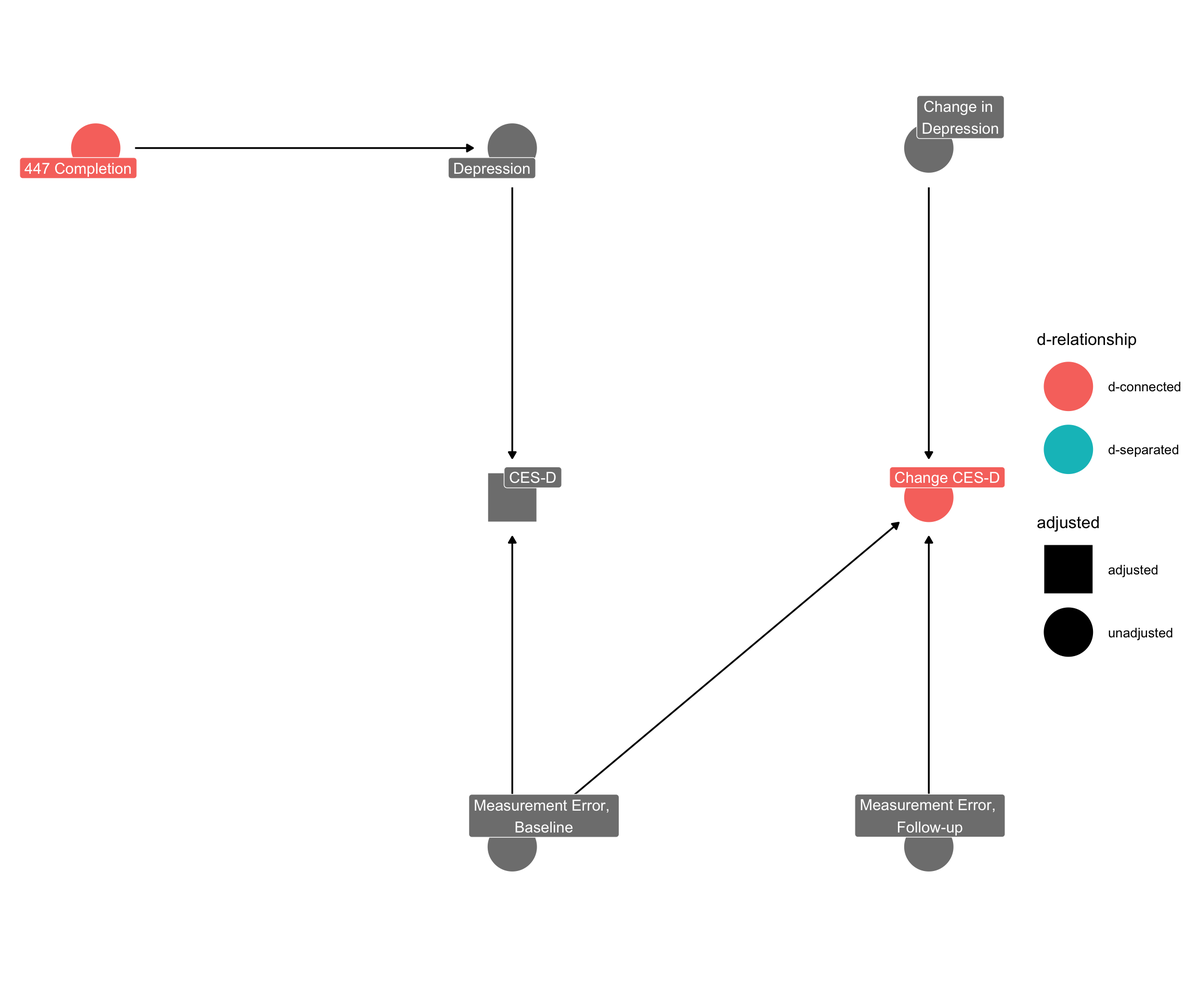
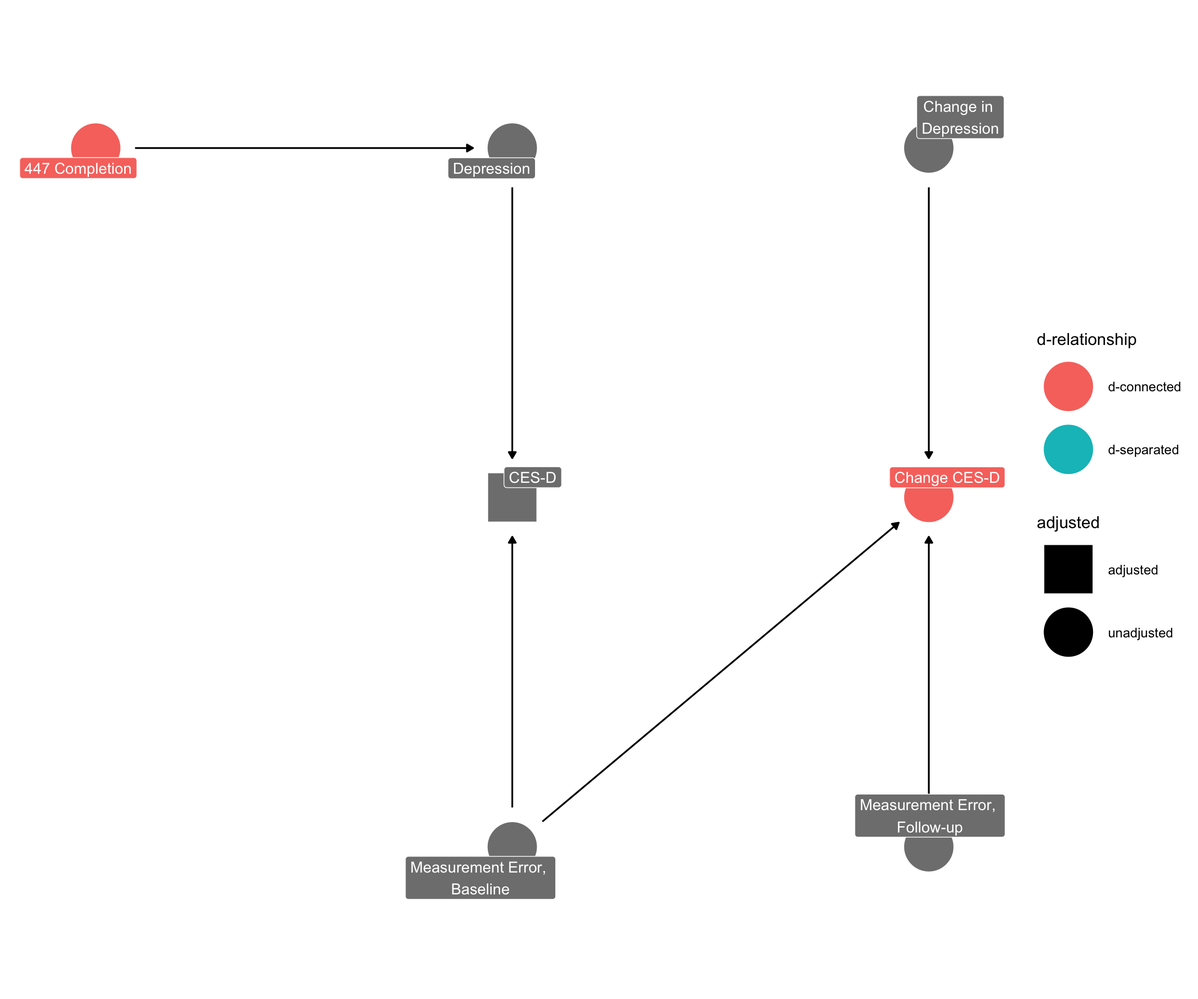
update lecture 12

Changed region(s): [[0.3125, 0.7812, 0.5312, 0.9062], [0.4062, 0.1562, 0.4375, 0.1875]]

diff --git a/_posts/12_1/lecture_12.html b/_posts/12_1/lecture_12.html
@@ -124,7 +124,7 @@ code span.wa { color: #bf0303; } /* Warning */
   <!--/radix_placeholder_rmarkdown_metadata-->
   
   <script type="text/json" id="radix-resource-manifest">
-  {"type":"character","attributes":{},"value":["bib.bib","latent.png","lecture_12_files/anchor-4.2.2/anchor.min.js","lecture_12_files/bowser-1.9.3/bowser.min.js","lecture_12_files/distill-2.2.21/template.v2.js","lecture_12_files/figure-html5/adjust_meas_error-1.png","lecture_12_files/figure-html5/amelia_trace_3-1.png","lecture_12_files/figure-html5/amelia_trace2-1.png","lecture_12_files/figure-html5/bootega-1.png","lecture_12_files/figure-html5/bot_est-1.png","lecture_12_files/figure-html5/comparison_graph-1.png","lecture_12_files/figure-html5/dag-1.png","lecture_12_files/figure-html5/graph_impute-1.png","lecture_12_files/figure-html5/loop_lmer_function-1.png","lecture_12_files/figure-html5/measurement_error_confound-1.png","lecture_12_files/figure-html5/measurement_error_longitudinal_confound-1.png","lecture_12_files/figure-html5/mi_vismiss-1.png","lecture_12_files/figure-html5/omega-1.png","lecture_12_files/figure-html5/table_impute-1.png","lecture_12_files/figure-html5/unnamed-chunk-1-1.png","lecture_12_files/figure-html5/unnamed-chunk-11-1.png","lecture_12_files/figure-html5/unnamed-chunk-2-1.png","lecture_12_files/figure-html5/unnamed-chunk-3-1.png","lecture_12_files/figure-html5/unnamed-chunk-4-1.png","lecture_12_files/figure-html5/unnamed-chunk-5-1.png","lecture_12_files/figure-html5/unnamed-chunk-7-1.png","lecture_12_files/figure-html5/unnamed-chunk-8-1.png","lecture_12_files/figure-html5/unnamed-chunk-9-1.png","lecture_12_files/header-attrs-2.8.1/header-attrs.js","lecture_12_files/jquery-1.11.3/jquery.min.js","lecture_12_files/popper-2.6.0/popper.min.js","lecture_12_files/table1-1.0/table1_defaults.css","lecture_12_files/tippy-6.2.7/tippy-bundle.umd.min.js","lecture_12_files/tippy-6.2.7/tippy-light-border.css","lecture_12_files/tippy-6.2.7/tippy.css","lecture_12_files/tippy-6.2.7/tippy.umd.min.js","lecture_12_files/webcomponents-2.0.0/webcomponents.js","network.phg.png","network.png","RE__Lecture_12,_my_part/bib.bib","RE__Lecture_12,_my_part/latent.png","RE__Lecture_12,_my_part/lecture_12.Rmd","RE__Lecture_12,_my_part/op.png","RE__Lecture_12,_my_part 2/bib.bib","RE__Lecture_12,_my_part 2/latent.png","RE__Lecture_12,_my_part 2/lecture_12.Rmd","RE__Lecture_12,_my_part 2/op.png","RE__Lecture_12,_my_part.zip"]}
+  {"type":"character","attributes":{},"value":["bib.bib","latent.png","lecture_12_files/anchor-4.2.2/anchor.min.js","lecture_12_files/bowser-1.9.3/bowser.min.js","lecture_12_files/distill-2.2.21/template.v2.js","lecture_12_files/figure-html5/adjust_blad_rror-1.png","lecture_12_files/figure-html5/adjust_meas_error-1.png","lecture_12_files/figure-html5/amelia_trace_3-1.png","lecture_12_files/figure-html5/amelia_trace2-1.png","lecture_12_files/figure-html5/bootega-1.png","lecture_12_files/figure-html5/bot_est-1.png","lecture_12_files/figure-html5/comparison_graph-1.png","lecture_12_files/figure-html5/dag-1.png","lecture_12_files/figure-html5/graph_impute-1.png","lecture_12_files/figure-html5/loop_lmer_function-1.png","lecture_12_files/figure-html5/measurement_error_confound-1.png","lecture_12_files/figure-html5/measurement_error_longitudinal_confound-1.png","lecture_12_files/figure-html5/mi_vismiss-1.png","lecture_12_files/figure-html5/omega-1.png","lecture_12_files/figure-html5/table_impute-1.png","lecture_12_files/figure-html5/unnamed-chunk-1-1.png","lecture_12_files/figure-html5/unnamed-chunk-11-1.png","lecture_12_files/figure-html5/unnamed-chunk-2-1.png","lecture_12_files/figure-html5/unnamed-chunk-3-1.png","lecture_12_files/figure-html5/unnamed-chunk-4-1.png","lecture_12_files/figure-html5/unnamed-chunk-5-1.png","lecture_12_files/figure-html5/unnamed-chunk-7-1.png","lecture_12_files/figure-html5/unnamed-chunk-8-1.png","lecture_12_files/figure-html5/unnamed-chunk-9-1.png","lecture_12_files/header-attrs-2.8.1/header-attrs.js","lecture_12_files/jquery-1.11.3/jquery.min.js","lecture_12_files/popper-2.6.0/popper.min.js","lecture_12_files/table1-1.0/table1_defaults.css","lecture_12_files/tippy-6.2.7/tippy-bundle.umd.min.js","lecture_12_files/tippy-6.2.7/tippy-light-border.css","lecture_12_files/tippy-6.2.7/tippy.css","lecture_12_files/tippy-6.2.7/tippy.umd.min.js","lecture_12_files/webcomponents-2.0.0/webcomponents.js","network.phg.png","network.png","RE__Lecture_12,_my_part/bib.bib","RE__Lecture_12,_my_part/latent.png","RE__Lecture_12,_my_part/lecture_12.Rmd","RE__Lecture_12,_my_part/op.png","RE__Lecture_12,_my_part 2/bib.bib","RE__Lecture_12,_my_part 2/latent.png","RE__Lecture_12,_my_part 2/lecture_12.Rmd","RE__Lecture_12,_my_part 2/op.png","RE__Lecture_12,_my_part.zip"]}
   </script>
   <!--radix_placeholder_navigation_in_header-->
   <!--/radix_placeholder_navigation_in_header-->
@@ -1811,7 +1811,8 @@ Note: the normal point estimate and confidence interval for omega are based on t
 Show code
 </summary>
 <div class="sourceCode">
-<pre class="sourceCode r"><code class="sourceCode r"><span class='va'>coords</span> <span class='op'>&lt;-</span> <span class='fu'>tibble</span><span class='fu'>::</span><span class='fu'><a href='https://tibble.tidyverse.org/reference/tribble.html'>tribble</a></span><span class='op'>(</span>
+<pre class="sourceCode r"><code class="sourceCode r"><span class='kw'><a href='https://rdrr.io/r/base/library.html'>library</a></span><span class='op'>(</span><span class='va'><a href='https://github.com/malcolmbarrett/ggdag'>ggdag</a></span><span class='op'>)</span>
+<span class='va'>coords</span> <span class='op'>&lt;-</span> <span class='fu'>tibble</span><span class='fu'>::</span><span class='fu'><a href='https://tibble.tidyverse.org/reference/tribble.html'>tribble</a></span><span class='op'>(</span>
   <span class='op'>~</span><span class='va'>name</span>,            <span class='op'>~</span><span class='va'>x</span>,  <span class='op'>~</span><span class='va'>y</span>,
   <span class='st'>"bladder_cancer"</span>,    <span class='fl'>1</span>,   <span class='fl'>0</span>,
   <span class='st'>"vitamins"</span>,          <span class='fl'>0</span>,   <span class='fl'>0</span>,
@@ -1822,10 +1823,13 @@ Show code
 <span class='op'>)</span>
 
 
-<span class='va'>bladder_dag</span> <span class='op'>&lt;-</span> <span class='fu'>dagify</span><span class='op'>(</span>
+<span class='va'>bladder_dag</span> <span class='op'>&lt;-</span> <span class='fu'><a href='https://rdrr.io/pkg/ggdag/man/dagify.html'>dagify</a></span><span class='op'>(</span>
   <span class='va'>diagnosed_bc</span> <span class='op'>~</span> <span class='va'>bc_error</span> <span class='op'>+</span> <span class='va'>bladder_cancer</span>,
   <span class='va'>recalled_vits</span> <span class='op'>~</span> <span class='va'>vitamins</span> <span class='op'>+</span> <span class='va'>vits_error</span>,
   <span class='va'>vits_error</span> <span class='op'>~</span> <span class='va'>bladder_cancer</span>,
+  exposure <span class='op'>=</span> <span class='st'>"recalled_vits"</span>,
+  outcome <span class='op'>=</span> <span class='st'>"bladder_cancer"</span>,
+  latent <span class='op'>=</span> <span class='fu'><a href='https://rdrr.io/r/base/c.html'>c</a></span><span class='op'>(</span><span class='st'>"bc_error"</span>,<span class='st'>"vits_error"</span><span class='op'>)</span>,
   labels <span class='op'>=</span> <span class='fu'><a href='https://rdrr.io/r/base/c.html'>c</a></span><span class='op'>(</span>
     bladder_cancer <span class='op'>=</span> <span class='st'>"Bladder Cancer"</span>,
     vitamins <span class='op'>=</span> <span class='st'>"Childhood Vitamin \nIntake"</span>,
@@ -1836,17 +1840,25 @@ Show code
   <span class='op'>)</span>,
   coords <span class='op'>=</span> <span class='va'>coords</span>
 <span class='op'>)</span>
-<span class='fu'>ggdag</span><span class='op'>(</span><span class='va'>bladder_dag</span>, text <span class='op'>=</span> <span class='cn'>FALSE</span>, use_labels <span class='op'>=</span> <span class='st'>"label"</span>, node_size <span class='op'>=</span> <span class='fl'>20</span><span class='op'>)</span> <span class='op'>+</span> <span class='fu'>theme_dag_blank</span><span class='op'>(</span><span class='op'>)</span>
+<span class='fu'><a href='https://rdrr.io/pkg/ggdag/man/ggdag.html'>ggdag</a></span><span class='op'>(</span><span class='va'>bladder_dag</span>, text <span class='op'>=</span> <span class='cn'>FALSE</span>, use_labels <span class='op'>=</span> <span class='st'>"label"</span>, node_size <span class='op'>=</span> <span class='fl'>20</span><span class='op'>)</span> <span class='op'>+</span> <span class='fu'><a href='https://rdrr.io/pkg/ggdag/man/theme_dag_blank.html'>theme_dag_blank</a></span><span class='op'>(</span><span class='op'>)</span>
 </code></pre>
 </div>
 </details>
 <p><img src="lecture_12_files/figure-html5/measurement_error_confound-1.png" width="1152" /></p>
 </div>
+<p>In this DAG, we can obtain an unbiased estimate when we do not adjust for baseline CES-D scores:</p>
+<div class="layout-chunk" data-layout="l-body-outset">
+<div class="sourceCode">
+<pre class="sourceCode r"><code class="sourceCode r"><span class='fu'><a href='https://rdrr.io/pkg/ggdag/man/adjustment_sets.html'>ggdag_adjustment_set</a></span><span class='op'>(</span><span class='va'>bladder_dag</span>,
+                     text <span class='op'>=</span> <span class='cn'>FALSE</span>, use_labels <span class='op'>=</span> <span class='st'>"label"</span><span class='op'>)</span> <span class='op'>+</span> <span class='fu'><a href='https://rdrr.io/pkg/ggdag/man/theme_dag_blank.html'>theme_dag_blank</a></span><span class='op'>(</span><span class='op'>)</span>
+</code></pre>
+</div>
+<p><img src="lecture_12_files/figure-html5/adjust_blad_rror-1.png" width="1152" /></p>
+</div>
 <h4 id="measurement-error-in-panel-studies">Measurement error in panel studies</h4>
 <p>The Centers for Epidemiological Studies–Depression (CES-D) scale assess depression, but the scale is known to have measurement error.</p>
 <p>Question. Does completing Psych 477 affect change in depression changes after the course is finished. Assume no relationship. Nevertheless, conditioning on the baseline measure of CES-D will create bias in our model that arises from from measurement error.</p>
-<p><br />
-Here is Barrett’s example:</p>
+<p>Here is Barrett’s example:</p>
 <div class="layout-chunk" data-layout="l-body-outset">
 <details>
 <summary>
@@ -1865,12 +1877,13 @@ Show code
   <span class='st'>"followup_error"</span>,    <span class='fl'>3</span>,   <span class='fl'>1</span>
 <span class='op'>)</span>
 
-<span class='va'>cesd_dag</span> <span class='op'>&lt;-</span> <span class='fu'>dagify</span><span class='op'>(</span>
+<span class='va'>cesd_dag</span> <span class='op'>&lt;-</span> <span class='fu'><a href='https://rdrr.io/pkg/ggdag/man/dagify.html'>dagify</a></span><span class='op'>(</span>
   <span class='va'>depression</span> <span class='op'>~</span> <span class='va'>honors</span>,
   <span class='va'>cesd</span> <span class='op'>~</span> <span class='va'>depression</span> <span class='op'>+</span> <span class='va'>baseline_error</span>,
   <span class='va'>cesd_change</span> <span class='op'>~</span> <span class='va'>depression_change</span> <span class='op'>+</span> <span class='va'>followup_error</span> <span class='op'>+</span> <span class='va'>baseline_error</span>,
   outcome <span class='op'>=</span> <span class='st'>"cesd_change"</span>,
   exposure  <span class='op'>=</span> <span class='st'>"honors"</span>,
+  latent <span class='op'>=</span> <span class='fu'><a href='https://rdrr.io/r/base/c.html'>c</a></span><span class='op'>(</span><span class='st'>"followup_error"</span>,<span class='st'>"baseline_error"</span><span class='op'>)</span>,
   labels <span class='op'>=</span> <span class='fu'><a href='https://rdrr.io/r/base/c.html'>c</a></span><span class='op'>(</span>
     honors <span class='op'>=</span> <span class='st'>"447 Completion"</span>,
     depression <span class='op'>=</span> <span class='st'>"Depression"</span>,
@@ -1885,24 +1898,24 @@ Show code
  <span class='co'># control_for(c("baseline_error","followup_error"))</span>
 
 <span class='va'>cesd_dag</span> <span class='op'>%&gt;%</span>
-  <span class='fu'>ggdag_dconnected</span><span class='op'>(</span>
+  <span class='fu'><a href='https://rdrr.io/pkg/ggdag/man/d_relationship.html'>ggdag_dconnected</a></span><span class='op'>(</span>
     from <span class='op'>=</span> <span class='st'>"honors"</span>,
     to <span class='op'>=</span> <span class='st'>"cesd_change"</span>,
     controlling_for <span class='op'>=</span> <span class='st'>"cesd"</span>,
     text <span class='op'>=</span> <span class='cn'>FALSE</span>,
     use_labels <span class='op'>=</span> <span class='st'>"label"</span>,
     collider_lines <span class='op'>=</span> <span class='cn'>FALSE</span>
-  <span class='op'>)</span> <span class='op'>+</span> <span class='fu'>theme_dag_blank</span><span class='op'>(</span><span class='op'>)</span>
+  <span class='op'>)</span> <span class='op'>+</span> <span class='fu'><a href='https://rdrr.io/pkg/ggdag/man/theme_dag_blank.html'>theme_dag_blank</a></span><span class='op'>(</span><span class='op'>)</span>
 </code></pre>
 </div>
 </details>
 <p><img src="lecture_12_files/figure-html5/measurement_error_longitudinal_confound-1.png" width="1152" /></p>
 </div>
-<p>In this DAG, we can obtain an unbiased estimate when we do not adjust for baseline CES-D scores:</p>
+<p>The DAG reveals we can obtain an unbiased estimate when we do not adjust for baseline CES-D scores:</p>
 <div class="layout-chunk" data-layout="l-body-outset">
 <div class="sourceCode">
-<pre class="sourceCode r"><code class="sourceCode r"><span class='fu'>ggdag_adjustment_set</span><span class='op'>(</span><span class='va'>cesd_dag</span>,
-                     text <span class='op'>=</span> <span class='cn'>FALSE</span>, use_labels <span class='op'>=</span> <span class='st'>"label"</span><span class='op'>)</span> <span class='op'>+</span> <span class='fu'>theme_dag_blank</span><span class='op'>(</span><span class='op'>)</span>
+<pre class="sourceCode r"><code class="sourceCode r"><span class='fu'><a href='https://rdrr.io/pkg/ggdag/man/adjustment_sets.html'>ggdag_adjustment_set</a></span><span class='op'>(</span><span class='va'>cesd_dag</span>,
+                     text <span class='op'>=</span> <span class='cn'>FALSE</span>, use_labels <span class='op'>=</span> <span class='st'>"label"</span><span class='op'>)</span> <span class='op'>+</span> <span class='fu'><a href='https://rdrr.io/pkg/ggdag/man/theme_dag_blank.html'>theme_dag_blank</a></span><span class='op'>(</span><span class='op'>)</span>
 </code></pre>
 </div>
 <p><img src="lecture_12_files/figure-html5/adjust_meas_error-1.png" width="1152" /></p>

diff --git a/docs/posts/12_1/index.html b/docs/posts/12_1/index.html
@@ -147,7 +147,7 @@ code span.wa { color: #bf0303; } /* Warning */
 <!--/radix_placeholder_rmarkdown_metadata-->
   
   <script type="text/json" id="radix-resource-manifest">
-  {"type":"character","attributes":{},"value":["bib.bib","latent.png","lecture_12_files/anchor-4.2.2/anchor.min.js","lecture_12_files/bowser-1.9.3/bowser.min.js","lecture_12_files/distill-2.2.21/template.v2.js","lecture_12_files/figure-html5/adjust_meas_error-1.png","lecture_12_files/figure-html5/amelia_trace_3-1.png","lecture_12_files/figure-html5/amelia_trace2-1.png","lecture_12_files/figure-html5/bootega-1.png","lecture_12_files/figure-html5/bot_est-1.png","lecture_12_files/figure-html5/comparison_graph-1.png","lecture_12_files/figure-html5/dag-1.png","lecture_12_files/figure-html5/graph_impute-1.png","lecture_12_files/figure-html5/loop_lmer_function-1.png","lecture_12_files/figure-html5/measurement_error_confound-1.png","lecture_12_files/figure-html5/measurement_error_longitudinal_confound-1.png","lecture_12_files/figure-html5/mi_vismiss-1.png","lecture_12_files/figure-html5/omega-1.png","lecture_12_files/figure-html5/table_impute-1.png","lecture_12_files/figure-html5/unnamed-chunk-1-1.png","lecture_12_files/figure-html5/unnamed-chunk-11-1.png","lecture_12_files/figure-html5/unnamed-chunk-2-1.png","lecture_12_files/figure-html5/unnamed-chunk-3-1.png","lecture_12_files/figure-html5/unnamed-chunk-4-1.png","lecture_12_files/figure-html5/unnamed-chunk-5-1.png","lecture_12_files/figure-html5/unnamed-chunk-7-1.png","lecture_12_files/figure-html5/unnamed-chunk-8-1.png","lecture_12_files/figure-html5/unnamed-chunk-9-1.png","lecture_12_files/header-attrs-2.8.1/header-attrs.js","lecture_12_files/jquery-1.11.3/jquery.min.js","lecture_12_files/popper-2.6.0/popper.min.js","lecture_12_files/table1-1.0/table1_defaults.css","lecture_12_files/tippy-6.2.7/tippy-bundle.umd.min.js","lecture_12_files/tippy-6.2.7/tippy-light-border.css","lecture_12_files/tippy-6.2.7/tippy.css","lecture_12_files/tippy-6.2.7/tippy.umd.min.js","lecture_12_files/webcomponents-2.0.0/webcomponents.js","network.phg.png","network.png","RE__Lecture_12,_my_part/bib.bib","RE__Lecture_12,_my_part/latent.png","RE__Lecture_12,_my_part/lecture_12.Rmd","RE__Lecture_12,_my_part/op.png","RE__Lecture_12,_my_part 2/bib.bib","RE__Lecture_12,_my_part 2/latent.png","RE__Lecture_12,_my_part 2/lecture_12.Rmd","RE__Lecture_12,_my_part 2/op.png","RE__Lecture_12,_my_part.zip"]}
+  {"type":"character","attributes":{},"value":["bib.bib","latent.png","lecture_12_files/anchor-4.2.2/anchor.min.js","lecture_12_files/bowser-1.9.3/bowser.min.js","lecture_12_files/distill-2.2.21/template.v2.js","lecture_12_files/figure-html5/adjust_blad_rror-1.png","lecture_12_files/figure-html5/adjust_meas_error-1.png","lecture_12_files/figure-html5/amelia_trace_3-1.png","lecture_12_files/figure-html5/amelia_trace2-1.png","lecture_12_files/figure-html5/bootega-1.png","lecture_12_files/figure-html5/bot_est-1.png","lecture_12_files/figure-html5/comparison_graph-1.png","lecture_12_files/figure-html5/dag-1.png","lecture_12_files/figure-html5/graph_impute-1.png","lecture_12_files/figure-html5/loop_lmer_function-1.png","lecture_12_files/figure-html5/measurement_error_confound-1.png","lecture_12_files/figure-html5/measurement_error_longitudinal_confound-1.png","lecture_12_files/figure-html5/mi_vismiss-1.png","lecture_12_files/figure-html5/omega-1.png","lecture_12_files/figure-html5/table_impute-1.png","lecture_12_files/figure-html5/unnamed-chunk-1-1.png","lecture_12_files/figure-html5/unnamed-chunk-11-1.png","lecture_12_files/figure-html5/unnamed-chunk-2-1.png","lecture_12_files/figure-html5/unnamed-chunk-3-1.png","lecture_12_files/figure-html5/unnamed-chunk-4-1.png","lecture_12_files/figure-html5/unnamed-chunk-5-1.png","lecture_12_files/figure-html5/unnamed-chunk-7-1.png","lecture_12_files/figure-html5/unnamed-chunk-8-1.png","lecture_12_files/figure-html5/unnamed-chunk-9-1.png","lecture_12_files/header-attrs-2.8.1/header-attrs.js","lecture_12_files/jquery-1.11.3/jquery.min.js","lecture_12_files/popper-2.6.0/popper.min.js","lecture_12_files/table1-1.0/table1_defaults.css","lecture_12_files/tippy-6.2.7/tippy-bundle.umd.min.js","lecture_12_files/tippy-6.2.7/tippy-light-border.css","lecture_12_files/tippy-6.2.7/tippy.css","lecture_12_files/tippy-6.2.7/tippy.umd.min.js","lecture_12_files/webcomponents-2.0.0/webcomponents.js","network.phg.png","network.png","RE__Lecture_12,_my_part/bib.bib","RE__Lecture_12,_my_part/latent.png","RE__Lecture_12,_my_part/lecture_12.Rmd","RE__Lecture_12,_my_part/op.png","RE__Lecture_12,_my_part 2/bib.bib","RE__Lecture_12,_my_part 2/latent.png","RE__Lecture_12,_my_part 2/lecture_12.Rmd","RE__Lecture_12,_my_part 2/op.png","RE__Lecture_12,_my_part.zip"]}
   </script>
   <!--radix_placeholder_navigation_in_header-->
 <meta name="distill:offset" content="../.."/>
@@ -2476,7 +2476,8 @@ Note: the normal point estimate and confidence interval for omega are based on t
 Show code
 </summary>
 <div class="sourceCode">
-<pre class="sourceCode r"><code class="sourceCode r"><span class='va'>coords</span> <span class='op'>&lt;-</span> <span class='fu'>tibble</span><span class='fu'>::</span><span class='fu'><a href='https://tibble.tidyverse.org/reference/tribble.html'>tribble</a></span><span class='op'>(</span>
+<pre class="sourceCode r"><code class="sourceCode r"><span class='kw'><a href='https://rdrr.io/r/base/library.html'>library</a></span><span class='op'>(</span><span class='va'><a href='https://github.com/malcolmbarrett/ggdag'>ggdag</a></span><span class='op'>)</span>
+<span class='va'>coords</span> <span class='op'>&lt;-</span> <span class='fu'>tibble</span><span class='fu'>::</span><span class='fu'><a href='https://tibble.tidyverse.org/reference/tribble.html'>tribble</a></span><span class='op'>(</span>
   <span class='op'>~</span><span class='va'>name</span>,            <span class='op'>~</span><span class='va'>x</span>,  <span class='op'>~</span><span class='va'>y</span>,
   <span class='st'>"bladder_cancer"</span>,    <span class='fl'>1</span>,   <span class='fl'>0</span>,
   <span class='st'>"vitamins"</span>,          <span class='fl'>0</span>,   <span class='fl'>0</span>,
@@ -2487,10 +2488,13 @@ Show code
 <span class='op'>)</span>
 
 
-<span class='va'>bladder_dag</span> <span class='op'>&lt;-</span> <span class='fu'>dagify</span><span class='op'>(</span>
+<span class='va'>bladder_dag</span> <span class='op'>&lt;-</span> <span class='fu'><a href='https://rdrr.io/pkg/ggdag/man/dagify.html'>dagify</a></span><span class='op'>(</span>
   <span class='va'>diagnosed_bc</span> <span class='op'>~</span> <span class='va'>bc_error</span> <span class='op'>+</span> <span class='va'>bladder_cancer</span>,
   <span class='va'>recalled_vits</span> <span class='op'>~</span> <span class='va'>vitamins</span> <span class='op'>+</span> <span class='va'>vits_error</span>,
   <span class='va'>vits_error</span> <span class='op'>~</span> <span class='va'>bladder_cancer</span>,
+  exposure <span class='op'>=</span> <span class='st'>"recalled_vits"</span>,
+  outcome <span class='op'>=</span> <span class='st'>"bladder_cancer"</span>,
+  latent <span class='op'>=</span> <span class='fu'><a href='https://rdrr.io/r/base/c.html'>c</a></span><span class='op'>(</span><span class='st'>"bc_error"</span>,<span class='st'>"vits_error"</span><span class='op'>)</span>,
   labels <span class='op'>=</span> <span class='fu'><a href='https://rdrr.io/r/base/c.html'>c</a></span><span class='op'>(</span>
     bladder_cancer <span class='op'>=</span> <span class='st'>"Bladder Cancer"</span>,
     vitamins <span class='op'>=</span> <span class='st'>"Childhood Vitamin \nIntake"</span>,
@@ -2501,17 +2505,25 @@ Show code
   <span class='op'>)</span>,
   coords <span class='op'>=</span> <span class='va'>coords</span>
 <span class='op'>)</span>
-<span class='fu'>ggdag</span><span class='op'>(</span><span class='va'>bladder_dag</span>, text <span class='op'>=</span> <span class='cn'>FALSE</span>, use_labels <span class='op'>=</span> <span class='st'>"label"</span>, node_size <span class='op'>=</span> <span class='fl'>20</span><span class='op'>)</span> <span class='op'>+</span> <span class='fu'>theme_dag_blank</span><span class='op'>(</span><span class='op'>)</span>
+<span class='fu'><a href='https://rdrr.io/pkg/ggdag/man/ggdag.html'>ggdag</a></span><span class='op'>(</span><span class='va'>bladder_dag</span>, text <span class='op'>=</span> <span class='cn'>FALSE</span>, use_labels <span class='op'>=</span> <span class='st'>"label"</span>, node_size <span class='op'>=</span> <span class='fl'>20</span><span class='op'>)</span> <span class='op'>+</span> <span class='fu'><a href='https://rdrr.io/pkg/ggdag/man/theme_dag_blank.html'>theme_dag_blank</a></span><span class='op'>(</span><span class='op'>)</span>
 </code></pre>
 </div>
 </details>
 <p><img src="lecture_12_files/figure-html5/measurement_error_confound-1.png" width="1152" /></p>
 </div>
+<p>In this DAG, we can obtain an unbiased estimate when we do not adjust for baseline CES-D scores:</p>
+<div class="layout-chunk" data-layout="l-body-outset">
+<div class="sourceCode">
+<pre class="sourceCode r"><code class="sourceCode r"><span class='fu'><a href='https://rdrr.io/pkg/ggdag/man/adjustment_sets.html'>ggdag_adjustment_set</a></span><span class='op'>(</span><span class='va'>bladder_dag</span>,
+                     text <span class='op'>=</span> <span class='cn'>FALSE</span>, use_labels <span class='op'>=</span> <span class='st'>"label"</span><span class='op'>)</span> <span class='op'>+</span> <span class='fu'><a href='https://rdrr.io/pkg/ggdag/man/theme_dag_blank.html'>theme_dag_blank</a></span><span class='op'>(</span><span class='op'>)</span>
+</code></pre>
+</div>
+<p><img src="lecture_12_files/figure-html5/adjust_blad_rror-1.png" width="1152" /></p>
+</div>
 <h4 id="measurement-error-in-panel-studies">Measurement error in panel studies</h4>
 <p>The Centers for Epidemiological Studies–Depression (CES-D) scale assess depression, but the scale is known to have measurement error.</p>
 <p>Question. Does completing Psych 477 affect change in depression changes after the course is finished. Assume no relationship. Nevertheless, conditioning on the baseline measure of CES-D will create bias in our model that arises from from measurement error.</p>
-<p><br />
-Here is Barrett’s example:</p>
+<p>Here is Barrett’s example:</p>
 <div class="layout-chunk" data-layout="l-body-outset">
 <details>
 <summary>
@@ -2530,12 +2542,13 @@ Show code
   <span class='st'>"followup_error"</span>,    <span class='fl'>3</span>,   <span class='fl'>1</span>
 <span class='op'>)</span>
 
-<span class='va'>cesd_dag</span> <span class='op'>&lt;-</span> <span class='fu'>dagify</span><span class='op'>(</span>
+<span class='va'>cesd_dag</span> <span class='op'>&lt;-</span> <span class='fu'><a href='https://rdrr.io/pkg/ggdag/man/dagify.html'>dagify</a></span><span class='op'>(</span>
   <span class='va'>depression</span> <span class='op'>~</span> <span class='va'>honors</span>,
   <span class='va'>cesd</span> <span class='op'>~</span> <span class='va'>depression</span> <span class='op'>+</span> <span class='va'>baseline_error</span>,
   <span class='va'>cesd_change</span> <span class='op'>~</span> <span class='va'>depression_change</span> <span class='op'>+</span> <span class='va'>followup_error</span> <span class='op'>+</span> <span class='va'>baseline_error</span>,
   outcome <span class='op'>=</span> <span class='st'>"cesd_change"</span>,
   exposure  <span class='op'>=</span> <span class='st'>"honors"</span>,
+  latent <span class='op'>=</span> <span class='fu'><a href='https://rdrr.io/r/base/c.html'>c</a></span><span class='op'>(</span><span class='st'>"followup_error"</span>,<span class='st'>"baseline_error"</span><span class='op'>)</span>,
   labels <span class='op'>=</span> <span class='fu'><a href='https://rdrr.io/r/base/c.html'>c</a></span><span class='op'>(</span>
     honors <span class='op'>=</span> <span class='st'>"447 Completion"</span>,
     depression <span class='op'>=</span> <span class='st'>"Depression"</span>,
@@ -2550,24 +2563,24 @@ Show code
  <span class='co'># control_for(c("baseline_error","followup_error"))</span>
 
 <span class='va'>cesd_dag</span> <span class='op'>%&gt;%</span>
-  <span class='fu'>ggdag_dconnected</span><span class='op'>(</span>
+  <span class='fu'><a href='https://rdrr.io/pkg/ggdag/man/d_relationship.html'>ggdag_dconnected</a></span><span class='op'>(</span>
     from <span class='op'>=</span> <span class='st'>"honors"</span>,
     to <span class='op'>=</span> <span class='st'>"cesd_change"</span>,
     controlling_for <span class='op'>=</span> <span class='st'>"cesd"</span>,
     text <span class='op'>=</span> <span class='cn'>FALSE</span>,
     use_labels <span class='op'>=</span> <span class='st'>"label"</span>,
     collider_lines <span class='op'>=</span> <span class='cn'>FALSE</span>
-  <span class='op'>)</span> <span class='op'>+</span> <span class='fu'>theme_dag_blank</span><span class='op'>(</span><span class='op'>)</span>
+  <span class='op'>)</span> <span class='op'>+</span> <span class='fu'><a href='https://rdrr.io/pkg/ggdag/man/theme_dag_blank.html'>theme_dag_blank</a></span><span class='op'>(</span><span class='op'>)</span>
 </code></pre>
 </div>
 </details>
 <p><img src="lecture_12_files/figure-html5/measurement_error_longitudinal_confound-1.png" width="1152" /></p>
 </div>
-<p>In this DAG, we can obtain an unbiased estimate when we do not adjust for baseline CES-D scores:</p>
+<p>The DAG reveals we can obtain an unbiased estimate when we do not adjust for baseline CES-D scores:</p>
 <div class="layout-chunk" data-layout="l-body-outset">
 <div class="sourceCode">
-<pre class="sourceCode r"><code class="sourceCode r"><span class='fu'>ggdag_adjustment_set</span><span class='op'>(</span><span class='va'>cesd_dag</span>,
-                     text <span class='op'>=</span> <span class='cn'>FALSE</span>, use_labels <span class='op'>=</span> <span class='st'>"label"</span><span class='op'>)</span> <span class='op'>+</span> <span class='fu'>theme_dag_blank</span><span class='op'>(</span><span class='op'>)</span>
+<pre class="sourceCode r"><code class="sourceCode r"><span class='fu'><a href='https://rdrr.io/pkg/ggdag/man/adjustment_sets.html'>ggdag_adjustment_set</a></span><span class='op'>(</span><span class='va'>cesd_dag</span>,
+                     text <span class='op'>=</span> <span class='cn'>FALSE</span>, use_labels <span class='op'>=</span> <span class='st'>"label"</span><span class='op'>)</span> <span class='op'>+</span> <span class='fu'><a href='https://rdrr.io/pkg/ggdag/man/theme_dag_blank.html'>theme_dag_blank</a></span><span class='op'>(</span><span class='op'>)</span>
 </code></pre>
 </div>
 <p><img src="lecture_12_files/figure-html5/adjust_meas_error-1.png" width="1152" /></p>
